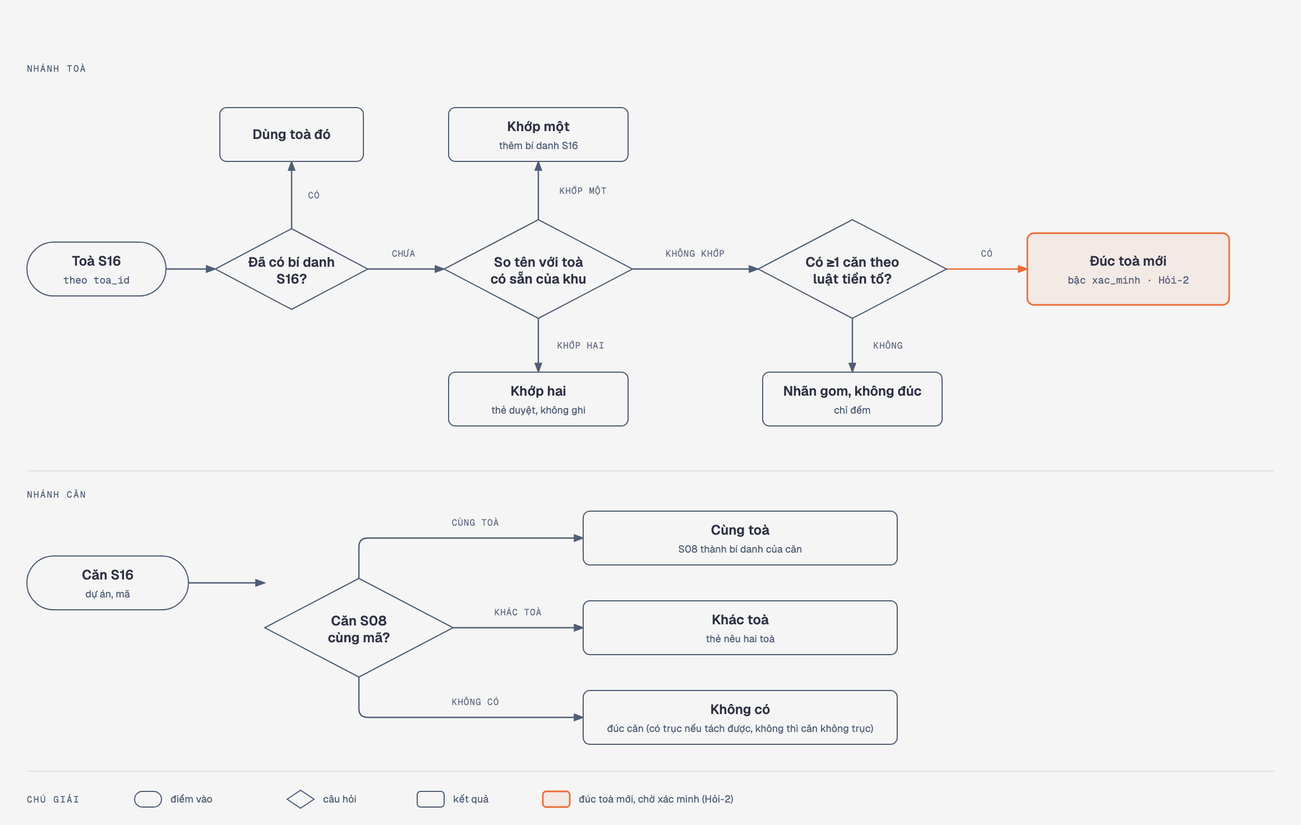
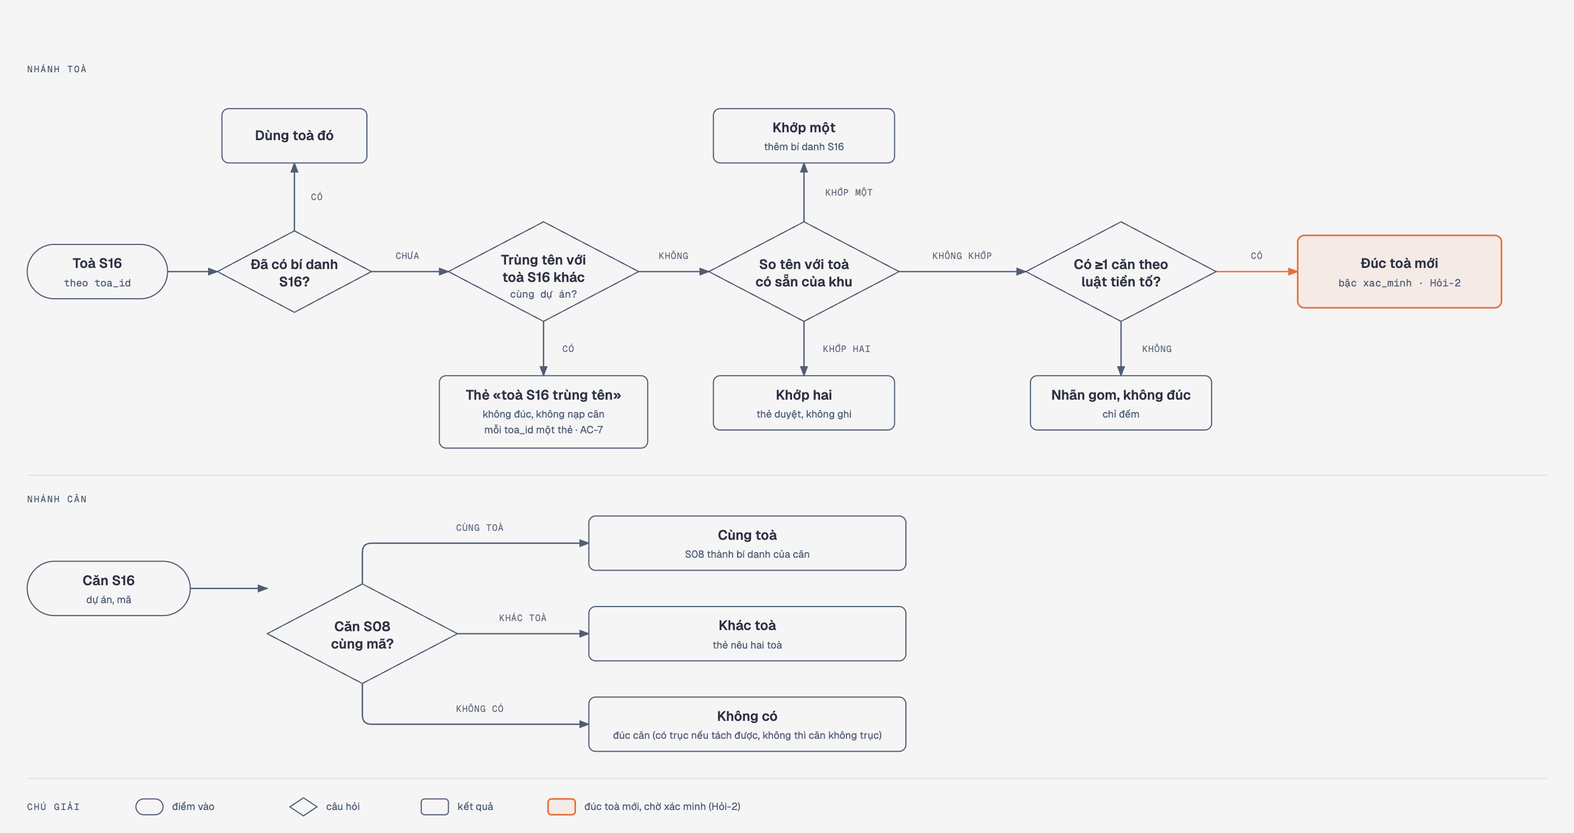
docs(acceptance): DA33 lưu đồ thêm nhánh toà S16 trùng tên, chú thích ba executor, hồ sơ áp bước 1d

diff --git a/_acceptance/nap-s16-vao-danh-ba/figures/cay-toa-can-s16.html b/_acceptance/nap-s16-vao-danh-ba/figures/cay-toa-can-s16.html
@@ -6,26 +6,26 @@
 *,*::before,*::after{box-sizing:border-box;margin:0;padding:0}
 :root{--paper:#f5f5f5;--ink:#2d3142;--muted:#4f5d75}
 body{font-family:'Geist',system-ui,sans-serif;background:var(--paper);color:var(--ink);padding:3rem 2rem}
-.frame{max-width:1200px;margin:0 auto}
+.frame{max-width:1440px;margin:0 auto}
 .eyebrow{font-family:'Geist Mono',monospace;font-size:.66rem;font-weight:500;letter-spacing:.18em;text-transform:uppercase;color:var(--muted);margin-bottom:.5rem}
 h1{font-family:'Instrument Serif','Lora',serif;font-size:2rem;font-weight:400;letter-spacing:-.02em;line-height:1.15;margin-bottom:1.5rem}
 svg{width:100%;min-width:900px;display:block}
 </style></head><body><div class="frame">
-<p class="eyebrow">Lưu đồ · AC-5 · AC-6 · AC-7</p>
+<p class="eyebrow">Lưu đồ · AC-5 · AC-6 · AC-7 · cập nhật 17/11: nhánh toà S16 trùng tên</p>
 <h1>Toà và căn S16 vào danh bạ: khớp, đúc hay chỉ đếm</h1>
-<svg viewBox="0 0 1160 736" xmlns="http://www.w3.org/2000/svg">
+<svg viewBox="0 0 1390 736" xmlns="http://www.w3.org/2000/svg">
 <defs>
 <marker id="arrow" markerWidth="8" markerHeight="6" refX="7" refY="3" orient="auto"><polygon points="0 0, 8 3, 0 6" fill="#4f5d75"/></marker>
 <marker id="arrow-accent" markerWidth="8" markerHeight="6" refX="7" refY="3" orient="auto"><polygon points="0 0, 8 3, 0 6" fill="#eb6c36"/></marker>
 </defs>
 <rect width="100%" height="100%" fill="#f5f5f5"/>
 <text x="24" y="64" fill="#4f5d75" font-size="8" font-family="'Geist Mono', monospace" letter-spacing="0.14em">NHÁNH TOÀ</text>
-<line x1="24" y1="420" x2="1136" y2="420" stroke="rgba(45,49,66,0.12)" stroke-width="0.8"/>
+<line x1="24" y1="420" x2="1366" y2="420" stroke="rgba(45,49,66,0.12)" stroke-width="0.8"/>
 <text x="24" y="444" fill="#4f5d75" font-size="8" font-family="'Geist Mono', monospace" letter-spacing="0.14em">NHÁNH CĂN</text>
-<path d="M148 240H192" fill="none" stroke="#4f5d75" stroke-width="1.2" marker-end="url(#arrow)"/><path d="M260 204V144" fill="none" stroke="#4f5d75" stroke-width="1.2" marker-end="url(#arrow)"/><path d="M328 240H396" fill="none" stroke="#4f5d75" stroke-width="1.2" marker-end="url(#arrow)"/><path d="M480 196V144" fill="none" stroke="#4f5d75" stroke-width="1.2" marker-end="url(#arrow)"/><path d="M480 284V332" fill="none" stroke="#4f5d75" stroke-width="1.2" marker-end="url(#arrow)"/><path d="M564 240H676" fill="none" stroke="#4f5d75" stroke-width="1.2" marker-end="url(#arrow)"/><path d="M844 240H916" fill="none" stroke="#eb6c36" stroke-width="1.2" marker-end="url(#arrow-accent)"/><path d="M760 284V332" fill="none" stroke="#4f5d75" stroke-width="1.2" marker-end="url(#arrow)"/><path d="M168 520H236" fill="none" stroke="#4f5d75" stroke-width="1.2" marker-end="url(#arrow)"/><path d="M320 516V488Q320 480 328 480H520" fill="none" stroke="#4f5d75" stroke-width="1.2" marker-end="url(#arrow)"/><path d="M404 560H520" fill="none" stroke="#4f5d75" stroke-width="1.2" marker-end="url(#arrow)"/><path d="M320 604V632Q320 640 328 640H520" fill="none" stroke="#4f5d75" stroke-width="1.2" marker-end="url(#arrow)"/>
-<rect x="24" y="216" width="124" height="48" rx="24" fill="#f5f5f5"/><rect x="24" y="216" width="124" height="48" rx="24" fill="#f5f5f5" stroke="#4f5d75" stroke-width="1"/><text x="86" y="237" fill="#2d3142" font-size="12" font-weight="600" font-family="'Geist', sans-serif" text-anchor="middle">Toà S16</text><text x="86" y="253" fill="#4f5d75" font-size="9" font-family="'Geist Mono', monospace" text-anchor="middle">theo toa_id</text><polygon points="192,240 260,204 328,240 260,276" fill="#f5f5f5"/><polygon points="192,240 260,204 328,240 260,276" fill="#f5f5f5" stroke="#4f5d75" stroke-width="1"/><text x="260" y="238" fill="#2d3142" font-size="12" font-weight="600" font-family="'Geist', sans-serif" text-anchor="middle">Đã có bí danh</text><text x="260" y="253" fill="#2d3142" font-size="12" font-weight="600" font-family="'Geist', sans-serif" text-anchor="middle">S16?</text><rect x="196" y="96" width="128" height="48" rx="6" fill="#f5f5f5"/><rect x="196" y="96" width="128" height="48" rx="6" fill="#f5f5f5" stroke="#4f5d75" stroke-width="1"/><text x="260" y="124" fill="#2d3142" font-size="12" font-weight="600" font-family="'Geist', sans-serif" text-anchor="middle">Dùng toà đó</text><polygon points="396,240 480,196 564,240 480,284" fill="#f5f5f5"/><polygon points="396,240 480,196 564,240 480,284" fill="#f5f5f5" stroke="#4f5d75" stroke-width="1"/><text x="480" y="238" fill="#2d3142" font-size="12" font-weight="600" font-family="'Geist', sans-serif" text-anchor="middle">So tên với toà</text><text x="480" y="253" fill="#2d3142" font-size="12" font-weight="600" font-family="'Geist', sans-serif" text-anchor="middle">có sẵn của khu</text><rect x="400" y="96" width="160" height="48" rx="6" fill="#f5f5f5"/><rect x="400" y="96" width="160" height="48" rx="6" fill="#f5f5f5" stroke="#4f5d75" stroke-width="1"/><text x="480" y="117" fill="#2d3142" font-size="12" font-weight="600" font-family="'Geist', sans-serif" text-anchor="middle">Khớp một</text><text x="480" y="133" fill="#4f5d75" font-size="9" font-family="'Geist', sans-serif" text-anchor="middle">thêm bí danh S16</text><rect x="400" y="332" width="160" height="48" rx="6" fill="#f5f5f5"/><rect x="400" y="332" width="160" height="48" rx="6" fill="#f5f5f5" stroke="#4f5d75" stroke-width="1"/><text x="480" y="353" fill="#2d3142" font-size="12" font-weight="600" font-family="'Geist', sans-serif" text-anchor="middle">Khớp hai</text><text x="480" y="369" fill="#4f5d75" font-size="9" font-family="'Geist', sans-serif" text-anchor="middle">thẻ duyệt, không ghi</text><polygon points="676,240 760,196 844,240 760,284" fill="#f5f5f5"/><polygon points="676,240 760,196 844,240 760,284" fill="#f5f5f5" stroke="#4f5d75" stroke-width="1"/><text x="760" y="238" fill="#2d3142" font-size="12" font-weight="600" font-family="'Geist', sans-serif" text-anchor="middle">Có ≥1 căn theo</text><text x="760" y="253" fill="#2d3142" font-size="12" font-weight="600" font-family="'Geist', sans-serif" text-anchor="middle">luật tiền tố?</text><rect x="916" y="208" width="180" height="64" rx="6" fill="#f5f5f5"/><rect x="916" y="208" width="180" height="64" rx="6" fill="rgba(235,108,54,0.08)" stroke="#eb6c36" stroke-width="1.4"/><text x="1006" y="237" fill="#2d3142" font-size="12" font-weight="600" font-family="'Geist', sans-serif" text-anchor="middle">Đúc toà mới</text><text x="1006" y="253" fill="#4f5d75" font-size="9" font-family="'Geist Mono', monospace" text-anchor="middle">bậc xac_minh · Hỏi-2</text><rect x="680" y="332" width="160" height="48" rx="6" fill="#f5f5f5"/><rect x="680" y="332" width="160" height="48" rx="6" fill="#f5f5f5" stroke="#4f5d75" stroke-width="1"/><text x="760" y="353" fill="#2d3142" font-size="12" font-weight="600" font-family="'Geist', sans-serif" text-anchor="middle">Nhãn gom, không đúc</text><text x="760" y="369" fill="#4f5d75" font-size="9" font-family="'Geist', sans-serif" text-anchor="middle">chỉ đếm</text><rect x="24" y="496" width="144" height="48" rx="24" fill="#f5f5f5"/><rect x="24" y="496" width="144" height="48" rx="24" fill="#f5f5f5" stroke="#4f5d75" stroke-width="1"/><text x="96" y="517" fill="#2d3142" font-size="12" font-weight="600" font-family="'Geist', sans-serif" text-anchor="middle">Căn S16</text><text x="96" y="533" fill="#4f5d75" font-size="9" font-family="'Geist', sans-serif" text-anchor="middle">dự án, mã</text><polygon points="236,560 320,516 404,560 320,604" fill="#f5f5f5"/><polygon points="236,560 320,516 404,560 320,604" fill="#f5f5f5" stroke="#4f5d75" stroke-width="1"/><text x="320" y="558" fill="#2d3142" font-size="12" font-weight="600" font-family="'Geist', sans-serif" text-anchor="middle">Căn S08</text><text x="320" y="573" fill="#2d3142" font-size="12" font-weight="600" font-family="'Geist', sans-serif" text-anchor="middle">cùng mã?</text><rect x="520" y="456" width="280" height="48" rx="6" fill="#f5f5f5"/><rect x="520" y="456" width="280" height="48" rx="6" fill="#f5f5f5" stroke="#4f5d75" stroke-width="1"/><text x="660" y="477" fill="#2d3142" font-size="12" font-weight="600" font-family="'Geist', sans-serif" text-anchor="middle">Cùng toà</text><text x="660" y="493" fill="#4f5d75" font-size="9" font-family="'Geist', sans-serif" text-anchor="middle">S08 thành bí danh của căn</text><rect x="520" y="536" width="280" height="48" rx="6" fill="#f5f5f5"/><rect x="520" y="536" width="280" height="48" rx="6" fill="#f5f5f5" stroke="#4f5d75" stroke-width="1"/><text x="660" y="557" fill="#2d3142" font-size="12" font-weight="600" font-family="'Geist', sans-serif" text-anchor="middle">Khác toà</text><text x="660" y="573" fill="#4f5d75" font-size="9" font-family="'Geist', sans-serif" text-anchor="middle">thẻ nêu hai toà</text><rect x="520" y="616" width="280" height="48" rx="6" fill="#f5f5f5"/><rect x="520" y="616" width="280" height="48" rx="6" fill="#f5f5f5" stroke="#4f5d75" stroke-width="1"/><text x="660" y="637" fill="#2d3142" font-size="12" font-weight="600" font-family="'Geist', sans-serif" text-anchor="middle">Không có</text><text x="660" y="653" fill="#4f5d75" font-size="9" font-family="'Geist', sans-serif" text-anchor="middle">đúc căn (có trục nếu tách được, không thì căn không trục)</text>
-<rect x="268" y="166" width="24" height="16" rx="2" fill="#f5f5f5"/><text x="280" y="177" fill="#636b80" font-size="8" font-family="'Geist Mono', monospace" text-anchor="middle" letter-spacing="0.06em">CÓ</text><rect x="340" y="218" width="40" height="16" rx="2" fill="#f5f5f5"/><text x="360" y="229" fill="#636b80" font-size="8" font-family="'Geist Mono', monospace" text-anchor="middle" letter-spacing="0.06em">CHƯA</text><rect x="488" y="162" width="64" height="16" rx="2" fill="#f5f5f5"/><text x="520" y="173" fill="#636b80" font-size="8" font-family="'Geist Mono', monospace" text-anchor="middle" letter-spacing="0.06em">KHỚP MỘT</text><rect x="488" y="300" width="60" height="16" rx="2" fill="#f5f5f5"/><text x="518" y="311" fill="#636b80" font-size="8" font-family="'Geist Mono', monospace" text-anchor="middle" letter-spacing="0.06em">KHỚP HAI</text><rect x="586" y="218" width="68" height="16" rx="2" fill="#f5f5f5"/><text x="620" y="229" fill="#636b80" font-size="8" font-family="'Geist Mono', monospace" text-anchor="middle" letter-spacing="0.06em">KHÔNG KHỚP</text><rect x="866" y="218" width="28" height="16" rx="2" fill="#f5f5f5"/><text x="880" y="229" fill="#636b80" font-size="8" font-family="'Geist Mono', monospace" text-anchor="middle" letter-spacing="0.06em">CÓ</text><rect x="768" y="300" width="48" height="16" rx="2" fill="#f5f5f5"/><text x="792" y="311" fill="#636b80" font-size="8" font-family="'Geist Mono', monospace" text-anchor="middle" letter-spacing="0.06em">KHÔNG</text><rect x="394" y="458" width="60" height="16" rx="2" fill="#f5f5f5"/><text x="424" y="469" fill="#636b80" font-size="8" font-family="'Geist Mono', monospace" text-anchor="middle" letter-spacing="0.06em">CÙNG TOÀ</text><rect x="432" y="538" width="60" height="16" rx="2" fill="#f5f5f5"/><text x="462" y="549" fill="#636b80" font-size="8" font-family="'Geist Mono', monospace" text-anchor="middle" letter-spacing="0.06em">KHÁC TOÀ</text><rect x="394" y="618" width="60" height="16" rx="2" fill="#f5f5f5"/><text x="424" y="629" fill="#636b80" font-size="8" font-family="'Geist Mono', monospace" text-anchor="middle" letter-spacing="0.06em">KHÔNG CÓ</text>
-<line x1="24" y1="688" x2="1136" y2="688" stroke="rgba(45,49,66,0.12)" stroke-width="0.8"/>
+<path d="M148 240H192" fill="none" stroke="#4f5d75" stroke-width="1.2" marker-end="url(#arrow)"/><path d="M260 204V144" fill="none" stroke="#4f5d75" stroke-width="1.2" marker-end="url(#arrow)"/><path d="M328 240H396" fill="none" stroke="#4f5d75" stroke-width="1.2" marker-end="url(#arrow)"/><path d="M710 196V144" fill="none" stroke="#4f5d75" stroke-width="1.2" marker-end="url(#arrow)"/><path d="M710 284V332" fill="none" stroke="#4f5d75" stroke-width="1.2" marker-end="url(#arrow)"/><path d="M794 240H906" fill="none" stroke="#4f5d75" stroke-width="1.2" marker-end="url(#arrow)"/><path d="M1074 240H1146" fill="none" stroke="#eb6c36" stroke-width="1.2" marker-end="url(#arrow-accent)"/><path d="M990 284V332" fill="none" stroke="#4f5d75" stroke-width="1.2" marker-end="url(#arrow)"/><path d="M168 520H236" fill="none" stroke="#4f5d75" stroke-width="1.2" marker-end="url(#arrow)"/><path d="M320 516V488Q320 480 328 480H520" fill="none" stroke="#4f5d75" stroke-width="1.2" marker-end="url(#arrow)"/><path d="M404 560H520" fill="none" stroke="#4f5d75" stroke-width="1.2" marker-end="url(#arrow)"/><path d="M320 604V632Q320 640 328 640H520" fill="none" stroke="#4f5d75" stroke-width="1.2" marker-end="url(#arrow)"/><path d="M480 284V332" fill="none" stroke="#4f5d75" stroke-width="1.2" marker-end="url(#arrow)"/><path d="M564 240H626" fill="none" stroke="#4f5d75" stroke-width="1.2" marker-end="url(#arrow)"/>
+<rect x="24" y="216" width="124" height="48" rx="24" fill="#f5f5f5"/><rect x="24" y="216" width="124" height="48" rx="24" fill="#f5f5f5" stroke="#4f5d75" stroke-width="1"/><text x="86" y="237" fill="#2d3142" font-size="12" font-weight="600" font-family="'Geist', sans-serif" text-anchor="middle">Toà S16</text><text x="86" y="253" fill="#4f5d75" font-size="9" font-family="'Geist Mono', monospace" text-anchor="middle">theo toa_id</text><polygon points="192,240 260,204 328,240 260,276" fill="#f5f5f5"/><polygon points="192,240 260,204 328,240 260,276" fill="#f5f5f5" stroke="#4f5d75" stroke-width="1"/><text x="260" y="238" fill="#2d3142" font-size="12" font-weight="600" font-family="'Geist', sans-serif" text-anchor="middle">Đã có bí danh</text><text x="260" y="253" fill="#2d3142" font-size="12" font-weight="600" font-family="'Geist', sans-serif" text-anchor="middle">S16?</text><rect x="196" y="96" width="128" height="48" rx="6" fill="#f5f5f5"/><rect x="196" y="96" width="128" height="48" rx="6" fill="#f5f5f5" stroke="#4f5d75" stroke-width="1"/><text x="260" y="124" fill="#2d3142" font-size="12" font-weight="600" font-family="'Geist', sans-serif" text-anchor="middle">Dùng toà đó</text><polygon points="626,240 710,196 794,240 710,284" fill="#f5f5f5"/><polygon points="626,240 710,196 794,240 710,284" fill="#f5f5f5" stroke="#4f5d75" stroke-width="1"/><text x="710" y="238" fill="#2d3142" font-size="12" font-weight="600" font-family="'Geist', sans-serif" text-anchor="middle">So tên với toà</text><text x="710" y="253" fill="#2d3142" font-size="12" font-weight="600" font-family="'Geist', sans-serif" text-anchor="middle">có sẵn của khu</text><rect x="630" y="96" width="160" height="48" rx="6" fill="#f5f5f5"/><rect x="630" y="96" width="160" height="48" rx="6" fill="#f5f5f5" stroke="#4f5d75" stroke-width="1"/><text x="710" y="117" fill="#2d3142" font-size="12" font-weight="600" font-family="'Geist', sans-serif" text-anchor="middle">Khớp một</text><text x="710" y="133" fill="#4f5d75" font-size="9" font-family="'Geist', sans-serif" text-anchor="middle">thêm bí danh S16</text><rect x="630" y="332" width="160" height="48" rx="6" fill="#f5f5f5"/><rect x="630" y="332" width="160" height="48" rx="6" fill="#f5f5f5" stroke="#4f5d75" stroke-width="1"/><text x="710" y="353" fill="#2d3142" font-size="12" font-weight="600" font-family="'Geist', sans-serif" text-anchor="middle">Khớp hai</text><text x="710" y="369" fill="#4f5d75" font-size="9" font-family="'Geist', sans-serif" text-anchor="middle">thẻ duyệt, không ghi</text><polygon points="906,240 990,196 1074,240 990,284" fill="#f5f5f5"/><polygon points="906,240 990,196 1074,240 990,284" fill="#f5f5f5" stroke="#4f5d75" stroke-width="1"/><text x="990" y="238" fill="#2d3142" font-size="12" font-weight="600" font-family="'Geist', sans-serif" text-anchor="middle">Có ≥1 căn theo</text><text x="990" y="253" fill="#2d3142" font-size="12" font-weight="600" font-family="'Geist', sans-serif" text-anchor="middle">luật tiền tố?</text><rect x="1146" y="208" width="180" height="64" rx="6" fill="#f5f5f5"/><rect x="1146" y="208" width="180" height="64" rx="6" fill="rgba(235,108,54,0.08)" stroke="#eb6c36" stroke-width="1.4"/><text x="1236" y="237" fill="#2d3142" font-size="12" font-weight="600" font-family="'Geist', sans-serif" text-anchor="middle">Đúc toà mới</text><text x="1236" y="253" fill="#4f5d75" font-size="9" font-family="'Geist Mono', monospace" text-anchor="middle">bậc xac_minh · Hỏi-2</text><rect x="910" y="332" width="160" height="48" rx="6" fill="#f5f5f5"/><rect x="910" y="332" width="160" height="48" rx="6" fill="#f5f5f5" stroke="#4f5d75" stroke-width="1"/><text x="990" y="353" fill="#2d3142" font-size="12" font-weight="600" font-family="'Geist', sans-serif" text-anchor="middle">Nhãn gom, không đúc</text><text x="990" y="369" fill="#4f5d75" font-size="9" font-family="'Geist', sans-serif" text-anchor="middle">chỉ đếm</text><rect x="24" y="496" width="144" height="48" rx="24" fill="#f5f5f5"/><rect x="24" y="496" width="144" height="48" rx="24" fill="#f5f5f5" stroke="#4f5d75" stroke-width="1"/><text x="96" y="517" fill="#2d3142" font-size="12" font-weight="600" font-family="'Geist', sans-serif" text-anchor="middle">Căn S16</text><text x="96" y="533" fill="#4f5d75" font-size="9" font-family="'Geist', sans-serif" text-anchor="middle">dự án, mã</text><polygon points="236,560 320,516 404,560 320,604" fill="#f5f5f5"/><polygon points="236,560 320,516 404,560 320,604" fill="#f5f5f5" stroke="#4f5d75" stroke-width="1"/><text x="320" y="558" fill="#2d3142" font-size="12" font-weight="600" font-family="'Geist', sans-serif" text-anchor="middle">Căn S08</text><text x="320" y="573" fill="#2d3142" font-size="12" font-weight="600" font-family="'Geist', sans-serif" text-anchor="middle">cùng mã?</text><rect x="520" y="456" width="280" height="48" rx="6" fill="#f5f5f5"/><rect x="520" y="456" width="280" height="48" rx="6" fill="#f5f5f5" stroke="#4f5d75" stroke-width="1"/><text x="660" y="477" fill="#2d3142" font-size="12" font-weight="600" font-family="'Geist', sans-serif" text-anchor="middle">Cùng toà</text><text x="660" y="493" fill="#4f5d75" font-size="9" font-family="'Geist', sans-serif" text-anchor="middle">S08 thành bí danh của căn</text><rect x="520" y="536" width="280" height="48" rx="6" fill="#f5f5f5"/><rect x="520" y="536" width="280" height="48" rx="6" fill="#f5f5f5" stroke="#4f5d75" stroke-width="1"/><text x="660" y="557" fill="#2d3142" font-size="12" font-weight="600" font-family="'Geist', sans-serif" text-anchor="middle">Khác toà</text><text x="660" y="573" fill="#4f5d75" font-size="9" font-family="'Geist', sans-serif" text-anchor="middle">thẻ nêu hai toà</text><rect x="520" y="616" width="280" height="48" rx="6" fill="#f5f5f5"/><rect x="520" y="616" width="280" height="48" rx="6" fill="#f5f5f5" stroke="#4f5d75" stroke-width="1"/><text x="660" y="637" fill="#2d3142" font-size="12" font-weight="600" font-family="'Geist', sans-serif" text-anchor="middle">Không có</text><text x="660" y="653" fill="#4f5d75" font-size="9" font-family="'Geist', sans-serif" text-anchor="middle">đúc căn (có trục nếu tách được, không thì căn không trục)</text><polygon points="396,240 480,196 564,240 480,284" fill="#f5f5f5"/><polygon points="396,240 480,196 564,240 480,284" fill="#f5f5f5" stroke="#4f5d75" stroke-width="1"/><text x="480" y="234" fill="#2d3142" font-size="12" font-weight="600" font-family="'Geist', sans-serif" text-anchor="middle">Trùng tên với</text><text x="480" y="249" fill="#2d3142" font-size="12" font-weight="600" font-family="'Geist', sans-serif" text-anchor="middle">toà S16 khác</text><text x="480" y="263" fill="#4f5d75" font-size="9" font-family="'Geist Mono', monospace" text-anchor="middle">cùng dự án?</text><rect x="388" y="332" width="184" height="64" rx="6" fill="#f5f5f5"/><rect x="388" y="332" width="184" height="64" rx="6" fill="#f5f5f5" stroke="#4f5d75" stroke-width="1"/><text x="480" y="353" fill="#2d3142" font-size="12" font-weight="600" font-family="'Geist', sans-serif" text-anchor="middle">Thẻ «toà S16 trùng tên»</text><text x="480" y="369" fill="#4f5d75" font-size="9" font-family="'Geist', sans-serif" text-anchor="middle">không đúc, không nạp căn</text><text x="480" y="383" fill="#4f5d75" font-size="9" font-family="'Geist', sans-serif" text-anchor="middle">mỗi toa_id một thẻ · AC-7</text>
+<rect x="268" y="166" width="24" height="16" rx="2" fill="#f5f5f5"/><text x="280" y="177" fill="#636b80" font-size="8" font-family="'Geist Mono', monospace" text-anchor="middle" letter-spacing="0.06em">CÓ</text><rect x="340" y="218" width="40" height="16" rx="2" fill="#f5f5f5"/><text x="360" y="229" fill="#636b80" font-size="8" font-family="'Geist Mono', monospace" text-anchor="middle" letter-spacing="0.06em">CHƯA</text><rect x="718" y="162" width="64" height="16" rx="2" fill="#f5f5f5"/><text x="750" y="173" fill="#636b80" font-size="8" font-family="'Geist Mono', monospace" text-anchor="middle" letter-spacing="0.06em">KHỚP MỘT</text><rect x="718" y="300" width="60" height="16" rx="2" fill="#f5f5f5"/><text x="748" y="311" fill="#636b80" font-size="8" font-family="'Geist Mono', monospace" text-anchor="middle" letter-spacing="0.06em">KHỚP HAI</text><rect x="816" y="218" width="68" height="16" rx="2" fill="#f5f5f5"/><text x="850" y="229" fill="#636b80" font-size="8" font-family="'Geist Mono', monospace" text-anchor="middle" letter-spacing="0.06em">KHÔNG KHỚP</text><rect x="1096" y="218" width="28" height="16" rx="2" fill="#f5f5f5"/><text x="1110" y="229" fill="#636b80" font-size="8" font-family="'Geist Mono', monospace" text-anchor="middle" letter-spacing="0.06em">CÓ</text><rect x="998" y="300" width="48" height="16" rx="2" fill="#f5f5f5"/><text x="1022" y="311" fill="#636b80" font-size="8" font-family="'Geist Mono', monospace" text-anchor="middle" letter-spacing="0.06em">KHÔNG</text><rect x="394" y="458" width="60" height="16" rx="2" fill="#f5f5f5"/><text x="424" y="469" fill="#636b80" font-size="8" font-family="'Geist Mono', monospace" text-anchor="middle" letter-spacing="0.06em">CÙNG TOÀ</text><rect x="432" y="538" width="60" height="16" rx="2" fill="#f5f5f5"/><text x="462" y="549" fill="#636b80" font-size="8" font-family="'Geist Mono', monospace" text-anchor="middle" letter-spacing="0.06em">KHÁC TOÀ</text><rect x="394" y="618" width="60" height="16" rx="2" fill="#f5f5f5"/><text x="424" y="629" fill="#636b80" font-size="8" font-family="'Geist Mono', monospace" text-anchor="middle" letter-spacing="0.06em">KHÔNG CÓ</text><rect x="488" y="300" width="28" height="16" rx="2" fill="#f5f5f5"/><text x="502" y="311" fill="#636b80" font-size="8" font-family="'Geist Mono', monospace" text-anchor="middle" letter-spacing="0.06em">CÓ</text><rect x="571" y="218" width="48" height="16" rx="2" fill="#f5f5f5"/><text x="595" y="229" fill="#636b80" font-size="8" font-family="'Geist Mono', monospace" text-anchor="middle" letter-spacing="0.06em">KHÔNG</text>
+<line x1="24" y1="688" x2="1366" y2="688" stroke="rgba(45,49,66,0.12)" stroke-width="0.8"/>
 <text x="24" y="716" fill="#4f5d75" font-size="8" font-family="'Geist Mono', monospace" letter-spacing="0.14em">CHÚ GIẢI</text>
 <rect x="120" y="706" width="24" height="14" rx="7" fill="#f5f5f5" stroke="#4f5d75"/><text x="152" y="716" fill="#4f5d75" font-size="9" font-family="'Geist', sans-serif">điểm vào</text>
 <polygon points="256,713 268,705 280,713 268,721" fill="#f5f5f5" stroke="#4f5d75"/><text x="288" y="716" fill="#4f5d75" font-size="9" font-family="'Geist', sans-serif">câu hỏi</text>

diff --git a/_acceptance/nap-s16-vao-danh-ba/figures/index.md b/_acceptance/nap-s16-vao-danh-ba/figures/index.md
@@ -3,13 +3,13 @@
 | Điểm | Đếm | Hình |
 |---|---|---|
 | Hỏi-1 — bảng nối năm dự án S16 với nút có sẵn | dưới ngưỡng: một bước, một nhánh (có trong bảng / không) | — |
-| Hỏi-2 — toà S16 đúc hay khớp, bậc gì | cần hình: bốn nhánh (khớp một · không khớp có căn · không khớp 0 căn · khớp hai) nối tiếp luật căn | cay-toa-can-s16 |
+| Hỏi-2 — toà S16 đúc hay khớp, bậc gì | cần hình: năm nhánh (trùng tên S16 · khớp một · không khớp có căn · không khớp 0 căn · khớp hai) nối tiếp luật căn | cay-toa-can-s16 |
 | descope «bỏ đặc-tả-UX» | dưới ngưỡng: không nhánh | — |
 | descope «không đưa tin rao S16» | dưới ngưỡng: không nhánh | — |
 | gap-probe — 0 mục human-gate1 | — | — |
 
 ## Đề bài hình `cay-toa-can-s16`
 - Loại: flowchart (cây quyết định), trái → phải.
-- Nút: «Toà S16 (theo toa_id)» → «đã có bí danh S16?» → có: dùng toà · chưa: «so tên với toà có sẵn của khu» → ba nhánh: «khớp một → thêm bí danh» · «khớp hai → thẻ, không ghi» · «không khớp» → «có ≥1 căn theo luật tiền tố?» → có: «đúc toà mới, bậc xac_minh (Hỏi-2)» · không: «nhãn gom, không đúc, chỉ đếm».
+- Nút: «Toà S16 (theo toa_id)» → «đã có bí danh S16?» → có: dùng toà · chưa: «trùng tên với toà S16 khác cùng dự án?» → có: «thẻ toà S16 trùng tên, không đúc, không nạp căn» (luật (a), thêm 17/11) · không: «so tên với toà có sẵn của khu» → ba nhánh: «khớp một → thêm bí danh» · «khớp hai → thẻ, không ghi» · «không khớp» → «có ≥1 căn theo luật tiền tố?» → có: «đúc toà mới, bậc xac_minh (Hỏi-2)» · không: «nhãn gom, không đúc, chỉ đếm».
 - Nhánh căn bên dưới: «Căn S16 (dự án, mã)» → «căn S08 cùng mã?» → cùng toà: «S08 thành bí danh» · khác toà: «thẻ nêu hai toà» · không có: «đúc căn (có trục nếu tách được, không thì căn không trục)».
 - AC liên quan: AC-5, AC-6, AC-7.
